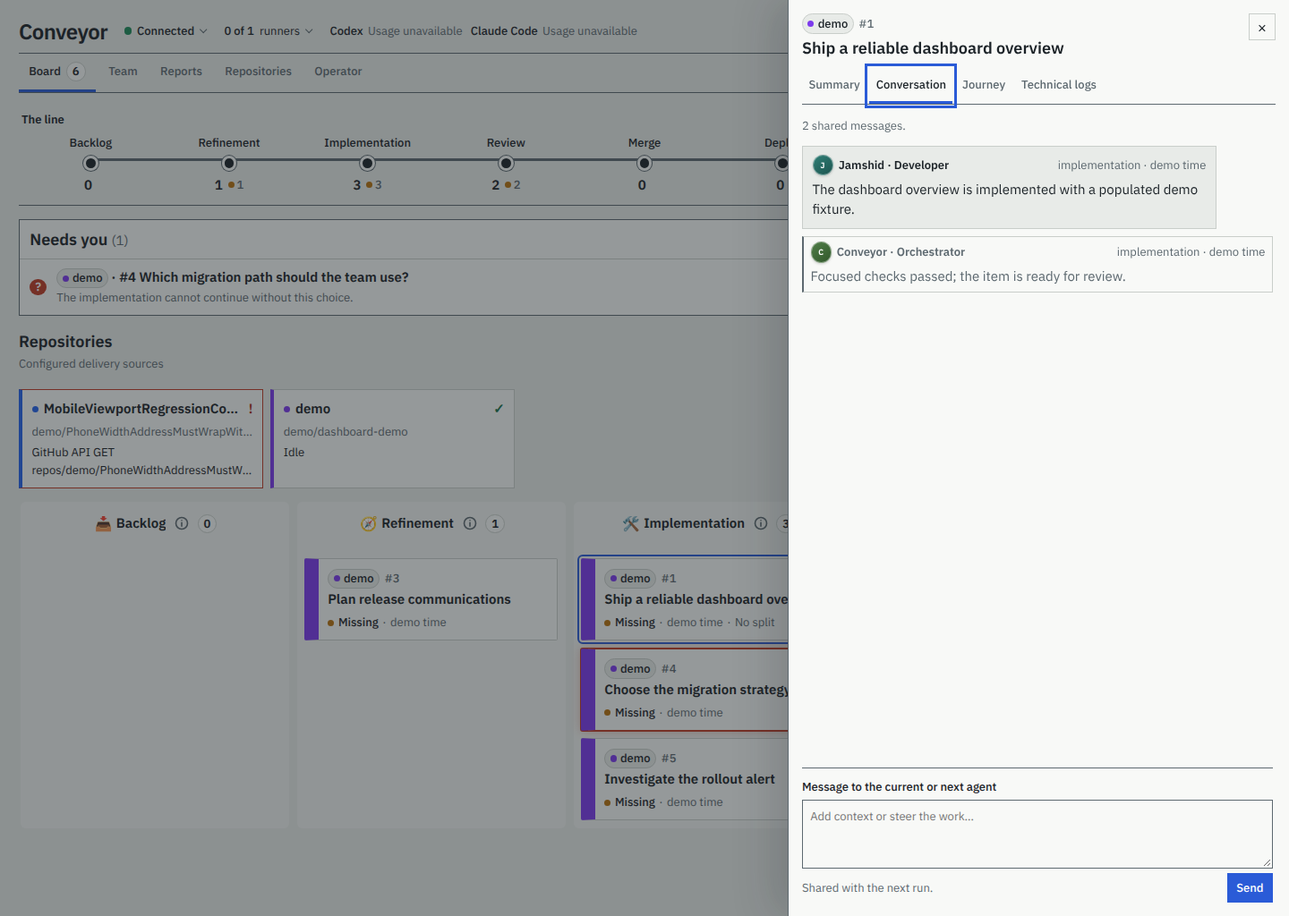
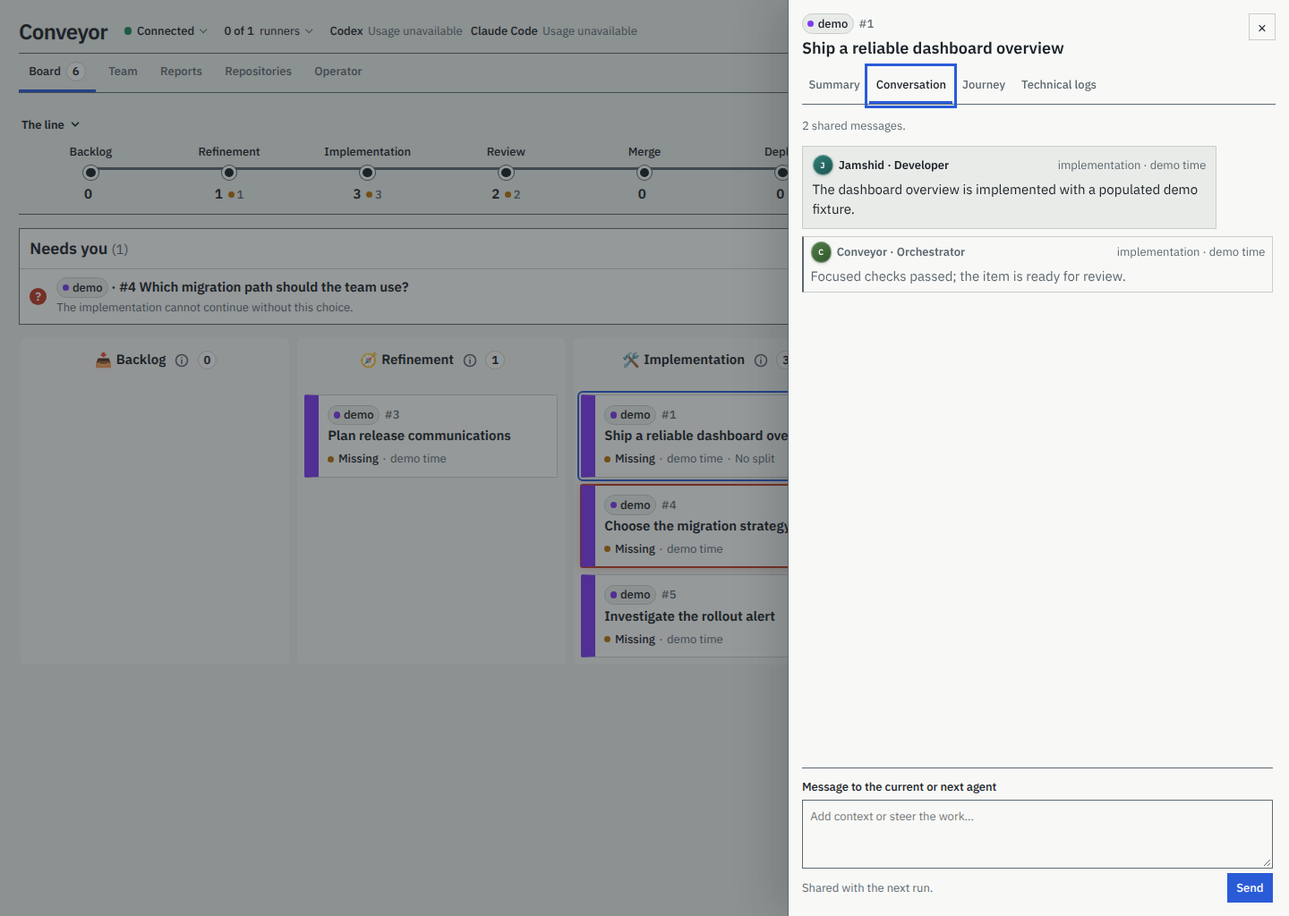
Fold the line (closed by default on phones); drop the board's Repositories strip (#241)
* Fold the line, closed by default on phones; drop the board's Repositories strip

The line's heading is a fold toggle. It animates like the board's rows,
is open on wide screens and closed on phones until the reader chooses,
and the choice is kept in localStorage and restored by the head script
before the page draws, so it never flashes. A closed line's stations are
inert.

The Board no longer shows the Repositories strip: the Repositories tab
lists every repository and each card names its own.

Claude-Session: https://claude.ai/code/session_01FLLqzkdKVb1gEw2jGLGWF2

* Screenshot checks: repository address and health live on the Repositories pages, not the board

Claude-Session: https://claude.ai/code/session_01FLLqzkdKVb1gEw2jGLGWF2

* Regenerate dashboard screenshots without the board's Repositories strip

Claude-Session: https://claude.ai/code/session_01FLLqzkdKVb1gEw2jGLGWF2

* Animate the line fold on its own, and check repository health on the Repositories page

The line's transitions waited on body.board-motion, which only the row-animation
branch set; the page now sets it after the first paint. The board no longer lists
repositories, so the degraded-sync check reads the Repositories page.

Claude-Session: https://claude.ai/code/session_01FLLqzkdKVb1gEw2jGLGWF2

* Call out a repository that cannot sync on the Board

With the Repositories strip gone, a degraded repository had no trace on the Board.
[…]

diff --git a/src/web/styles.ts b/src/web/styles.ts
@@ -1,5 +1,5 @@
 /** Runs before CSS is parsed so a persisted explicit theme never flashes. */
-export const themeInitScript = `try{const theme=localStorage.getItem("conveyor-theme");if(theme==="light"||theme==="dark")document.documentElement.dataset.theme=theme}catch{}`;
+export const themeInitScript = `try{const theme=localStorage.getItem("conveyor-theme");if(theme==="light"||theme==="dark")document.documentElement.dataset.theme=theme;const line=localStorage.getItem("conveyor-line");if(line==="open"||line==="closed")document.documentElement.dataset.line=line}catch{}`;
 
 const darkThemeTokens = "color-scheme:dark;--concrete:#151A1D;--panel:#20272B;--ink:#F2F5F3;--steel:#AEB9BD;--run:#4DCE91;--wait:#F0B35B;--stop:#FF7B69;--run-text:#4DCE91;--wait-text:#F0B35B;--stop-text:#FF7B69;--signal:#83A7FF;--line:#465157;--on-signal:#0E1A34;--run-glow:rgba(77,206,145,.42);--stop-glow:rgba(255,123,105,.46);--overlay:rgba(0,0,0,.68);--popover-shadow:0 12px 32px rgba(0,0,0,.48);--inspector-shadow:-16px 0 44px rgba(0,0,0,.58);--loader-bg:rgba(21,26,29,.9);--repo-1:#7BA8FF;--repo-2:#BEA3FF;--repo-3:#63D5C5;--repo-4:#C5D66D;--repo-5:#66C7F0;--repo-6:#7ED68F;--repo-7:#9FA8FF;--repo-8:#A8BAC4";
 
@@ -16,6 +16,7 @@ export const dashboardCss = `
 *{box-sizing:border-box}html,body{background:var(--concrete)}body{margin:0;color:var(--ink)}button,input,textarea,select{font:inherit;background:var(--panel);color:var(--ink)}button,summary{cursor:pointer}a{color:var(--signal);text-decoration-thickness:1px;text-underline-offset:3px}a:hover{text-decoration-thickness:2px}a:focus-visible,button:focus-visible,input:focus-visible,textarea:focus-visible,summary:focus-visible,[tabindex]:focus-visible{outline:3px solid var(--signal);outline-offset:2px}h1,h2,h3,h4,p{margin-top:0}strong,b{font-weight:600}.sr-only{position:absolute;width:1px;height:1px;margin:-1px;overflow:hidden;clip:rect(0,0,0,0);white-space:nowrap}
 .dashboard{width:100%;margin:0 auto;padding:.65rem clamp(.75rem,1.5vw,1.4rem) 1.5rem}.dashboard-header{display:flex;flex-wrap:wrap;align-items:center;gap:.3rem clamp(.7rem,1.5vw,1.25rem);padding:.65rem 0;border-bottom:1px solid var(--steel)}.wordmark{margin:0;font-size:var(--text-xl);font-weight:600;letter-spacing:-.025em;line-height:1}.wordmark a{color:var(--ink);text-decoration:none}.server-status,.runner-status,.theme-control{position:relative;min-width:0;font-size:var(--text-sm)}.server-status summary,.runner-status summary,.theme-control summary{display:flex;align-items:center;gap:.4rem;list-style:none;white-space:nowrap}.server-status summary::-webkit-details-marker,.runner-status summary::-webkit-details-marker,.theme-control summary::-webkit-details-marker{display:none}.server-status summary::after,.runner-status summary::after,.theme-control summary::after,.account-menu>summary::after{content:"";flex:none;width:.36rem;height:.36rem;margin:-.18rem .1rem 0 .05rem;border:solid var(--steel);border-width:0 1.5px 1.5px 0;transform:rotate(45deg)}.dashboard-header details[open]>summary::after{margin-top:.18rem;transform:rotate(225deg)}.server-status summary strong,.runner-status summary strong,.theme-control summary strong{font-weight:500}.server-dot{width:.55rem;height:.55rem;flex:none;border-radius:50%;background:var(--wait)}.server-status[data-connected="true"] .server-dot{background:var(--run)}.server-status[data-connected="false"] .server-dot{background:var(--stop)}.total-usage{flex:1 1 8rem;min-width:0;overflow:hidden;color:var(--steel);font-size:var(--text-sm);font-variant-numeric:tabular-nums;text-align:right;text-overflow:ellipsis;white-space:nowrap}.logout-form{margin:0}.logout{width:100%;border:0;background:transparent;color:var(--ink);padding:.35rem .1rem;font-size:var(--text-sm)}.header-popover{position:absolute;top:calc(100% + .65rem);left:0;z-index:20;width:min(22rem,calc(100vw - 2rem));padding:.8rem;border:1px solid var(--steel);background:var(--panel);box-shadow:var(--popover-shadow)}.header-popover h2{margin:0 0 .45rem;font-size:var(--text-body);font-weight:600}.header-popover p{margin:.25rem 0;color:var(--steel);font-size:var(--text-sm)}.header-popover ul{display:grid;gap:.25rem;margin:0;padding:0;list-style:none}.header-popover li a{display:grid;padding:.35rem;color:var(--ink);text-decoration:none}.header-popover li a:hover{background:var(--concrete)}.header-popover li span{color:var(--steel);font-size:var(--text-sm)}.runner-status .header-popover{left:50%;transform:translateX(-40%)}.theme-popover{right:0;left:auto;width:10rem}.theme-options{display:grid;gap:.2rem}.theme-options button{border:1px solid transparent;background:transparent;color:var(--ink);padding:.35rem .45rem;text-align:left}.theme-options button:hover,.theme-options button[aria-pressed="true"]{border-color:var(--line);background:var(--concrete)}.updated{font-variant-numeric:tabular-nums}
 .line{margin:.8rem 0 1rem;padding:.55rem .2rem .7rem;border-bottom:1px solid var(--steel)}.line>h2{margin:0 0 .4rem;font-size:var(--text-sm);font-weight:600}.line ol{display:flex;margin:0;padding:0;list-style:none}.line-station{position:relative;flex:1;min-width:5.5rem}.line-station::after{content:"";position:absolute;z-index:0;top:1.8rem;right:50%;left:-50%;height:3px;background:var(--steel)}.line-station:first-child::after{left:50%}.line-station a{position:relative;z-index:1;display:grid;justify-items:center;gap:.32rem;color:var(--ink);font-size:var(--text-sm);font-weight:500;text-align:center;text-decoration:none}.line-station a::before{content:"";order:2;width:.72rem;height:.72rem;border:3px solid var(--panel);border-radius:50%;background:var(--ink);box-shadow:0 0 0 1px var(--steel)}.line-station-name{order:1;white-space:nowrap}.line-station-state{order:3;display:flex;align-items:center;gap:.38rem;color:var(--steel);font-variant-numeric:tabular-nums}.line-station-state strong{color:var(--ink);font-size:var(--text-body)}.andon-signals,.andon-count{display:flex;align-items:center;gap:.18rem;min-height:.5rem}.andon-count small{font-size:var(--text-sm)}.andon{display:block;width:.48rem;height:.48rem;flex:none;border-radius:50%}.andon--run{background:var(--run)}.andon--wait{background:var(--wait)}.andon--stop{background:var(--stop)}.line-station--running::after{background:repeating-linear-gradient(90deg,var(--steel) 0 8px,var(--panel) 8px 12px);background-size:24px 3px}
+.repository-warnings{margin:0 0 .8rem}.repository-warnings ul{display:grid;gap:.35rem;margin:0;padding:0;list-style:none}.repository-warnings li{display:flex;align-items:center;gap:.6rem;padding:.45rem .6rem;border:1px solid var(--stop);border-left-width:4px;border-radius:2px;background:var(--panel);font-size:var(--text-sm)}.repository-warning-mark{display:inline-flex;flex:none;align-items:center;justify-content:center;width:1.25rem;height:1.25rem;border-radius:50%;background:var(--stop);color:var(--panel);font-weight:700;font-size:.8rem}.repository-warning-text{flex:1;min-width:0;color:var(--ink);overflow-wrap:anywhere}.repository-warnings a{flex:none;display:inline-flex;align-items:center;min-height:2rem;color:var(--signal);font-weight:600}@media(max-width:760px){.repository-warnings li{align-items:flex-start}.repository-warnings a{min-height:2.75rem;align-items:flex-start;padding-top:.1rem}}
 .system-warnings{margin:0 0 1rem;padding:.7rem .8rem;border:1px solid var(--stop);background:var(--panel);color:var(--stop-text)}.system-warnings h2{margin:0 0 .3rem;font-size:var(--text-body);font-weight:600}.system-warnings ul{margin:0;padding-left:1.2rem;font-size:var(--text-sm)}
 .needs-you{margin:0 0 1rem;border:1px solid var(--steel);background:var(--panel)}.needs-you>header{padding:.55rem .75rem;border-bottom:1px solid var(--line)}.needs-you h2{margin:0;font-size:var(--text-lg);font-weight:600}.needs-you h2 span{color:var(--steel);font-size:var(--text-body);font-weight:400}.needs-you>ol{margin:0;padding:0;list-style:none}.needs-you-item{display:grid;grid-template-columns:1.25rem minmax(0,1fr) auto;align-items:center;gap:.75rem;padding:.6rem .75rem}.needs-you-item+.needs-you-item{border-top:1px solid var(--line)}.needs-you-item>.andon{width:.58rem;height:.58rem;justify-self:center}.needs-you-item h3{margin:0;font-size:var(--text-body);font-weight:600}.needs-you-item p{margin:.05rem 0 0;color:var(--steel);font-size:var(--text-sm)}.needs-you-action,.answer-button{border:0;border-radius:2px;background:var(--signal);color:var(--on-signal);padding:.38rem .65rem;font-size:var(--text-sm);font-weight:500;text-decoration:none}.needs-you-question{display:grid;width:1.25rem;height:1.25rem;place-items:center;line-height:1;border-radius:50%;background:var(--stop);color:var(--on-signal);font-size:var(--text-sm);font-weight:600}.needs-you-item form{display:flex;align-items:center;justify-content:flex-end;gap:.55rem;flex-wrap:wrap}.option{display:flex;align-items:center;gap:.2rem;margin:0;font-size:var(--text-sm)}.free-text{display:grid;gap:.25rem;min-width:12rem;margin:0;font-size:var(--text-sm);font-weight:500}.free-text input{min-width:0;border:1px solid var(--steel);padding:.35rem}
 .tabs{display:flex;align-items:center;gap:.2rem;margin-bottom:.8rem;border-bottom:1px solid var(--steel)}.tab{display:flex;align-items:center;gap:.4rem;padding:.6rem .75rem;border-bottom:3px solid transparent;color:var(--steel);font-size:var(--text-sm);font-weight:500;text-decoration:none}.tab:hover{background:var(--panel)}.tab--active{border-bottom-color:var(--signal);color:var(--ink)}.tab-count,.count{display:inline-grid;min-width:1.45rem;height:1.45rem;padding:0 .3rem;place-items:center;border:1px solid var(--line);border-radius:50%;background:var(--panel);color:var(--ink);font-size:var(--text-sm);font-weight:600;font-variant-numeric:tabular-nums}
@@ -55,7 +56,7 @@ body:has(dialog[open]){overflow:hidden}
 @media(max-width:760px){.settings-section--form{grid-template-columns:1fr}.settings-form{grid-template-columns:1fr}.settings-actions{grid-column:1}.account-table th:last-child,.account-table td:last-child{width:auto}}
 @media(max-width:760px){.tabs{min-width:0;margin-bottom:.7rem;max-width:100%;overflow-x:auto;overscroll-behavior-x:contain}.tab{flex:0 0 auto;padding:.55rem .65rem;white-space:nowrap}}
 .repository-badge{min-width:0;max-width:min(100%,18rem);vertical-align:middle}.repository-name{min-width:0;overflow:hidden;text-overflow:ellipsis;white-space:nowrap}.section-heading>div,.details-header>div:first-child{min-width:0}.details-header h2,.report-heading h2{overflow-wrap:anywhere}.report>*{min-width:0}.report-filters nav{min-width:0;max-width:100%}.report-chip{max-width:100%;overflow-wrap:anywhere}
-.repository-badge{text-decoration:none}.repository-badge:hover{border-color:var(--steel)}.repositories{display:grid;gap:.65rem;margin:0 0 1rem}.repositories-heading{margin:0}.repositories-heading h2 a{color:inherit;text-decoration:none}.repositories-heading h2 a:hover{text-decoration:underline}.repository-grid{display:grid;grid-template-columns:repeat(auto-fill,minmax(min(100%,17rem),1fr));gap:.55rem;margin:0;padding:0;list-style:none}.repository-card{display:grid;align-content:start;gap:.28rem;min-width:0;min-height:6.75rem;padding:.65rem .7rem;border:1px solid var(--line);border-left:4px solid var(--repo-color);background:var(--panel);color:var(--ink);text-decoration:none}.repository-card:hover{border-color:var(--steel);border-left-color:var(--repo-color);background:var(--concrete)}.repository-card--degraded{border-top-color:var(--stop);border-right-color:var(--stop);border-bottom-color:var(--stop)}.repository-card-heading{display:flex;align-items:center;gap:.4rem;min-width:0}.repository-card-heading strong{min-width:0;overflow:hidden;text-overflow:ellipsis;white-space:nowrap}.repository-health{margin-left:auto;font-weight:700}.repository-card--healthy .repository-health{color:var(--run-text)}.repository-card--degraded .repository-health,.repository-error{color:var(--stop-text)}.repository-address,.repository-status,.repository-empty{margin:0;color:var(--steel);font-size:var(--text-sm);overflow-wrap:anywhere}.repository-status{color:var(--ink)}.repository-card .repository-address{overflow:hidden;text-overflow:ellipsis;white-space:nowrap}.repository-card .repository-status{display:-webkit-box;min-height:3em;overflow:hidden;-webkit-box-orient:vertical;-webkit-line-clamp:2;line-clamp:2}.repositories-show-all{justify-self:start;font-weight:500}.repository-detail{display:grid;max-width:72rem;gap:0;margin-bottom:1.5rem;border:1px solid var(--line);background:var(--panel)}.repository-detail>section,.repository-detail-header{padding:.8rem 1rem;border-bottom:1px solid var(--line)}.repository-detail>section:last-child{border-bottom:0}.repository-detail h2,.repository-detail h3{margin:0}.repository-detail h3{font-size:var(--text-lg)}.repository-detail-header h2{margin:.15rem 0}.repository-detail-header p{margin:.25rem 0}.repository-detail-header>.repository-detail-kind{display:flex;align-items:center;gap:.35rem;color:var(--steel);font-size:var(--text-sm)}.repository-items{display:grid;gap:.35rem;margin:.5rem 0 0;padding:0;list-style:none}.repository-items li{display:flex;flex-wrap:wrap;align-items:baseline;justify-content:space-between;gap:.35rem .8rem;padding:.4rem 0;border-top:1px solid var(--line);font-size:var(--text-sm)}.repository-items li:first-child{border-top:0}.repository-items span,.repository-items time{color:var(--steel)}.repository-facts{display:grid;grid-template-columns:max-content minmax(0,1fr);gap:.3rem 1rem;margin:.5rem 0 0}.repository-facts dt{color:var(--steel)}.repository-facts dd{margin:0;overflow-wrap:anywhere}
+.repository-badge{text-decoration:none}.repository-badge:hover{border-color:var(--steel)}.repositories{display:grid;gap:.65rem;margin:0 0 1rem}.repositories-heading{margin:0}.repository-grid{display:grid;grid-template-columns:repeat(auto-fill,minmax(min(100%,17rem),1fr));gap:.55rem;margin:0;padding:0;list-style:none}.repository-card{display:grid;align-content:start;gap:.28rem;min-width:0;min-height:6.75rem;padding:.65rem .7rem;border:1px solid var(--line);border-left:4px solid var(--repo-color);background:var(--panel);color:var(--ink);text-decoration:none}.repository-card:hover{border-color:var(--steel);border-left-color:var(--repo-color);background:var(--concrete)}.repository-card--degraded{border-top-color:var(--stop);border-right-color:var(--stop);border-bottom-color:var(--stop)}.repository-card-heading{display:flex;align-items:center;gap:.4rem;min-width:0}.repository-card-heading strong{min-width:0;overflow:hidden;text-overflow:ellipsis;white-space:nowrap}.repository-health{margin-left:auto;font-weight:700}.repository-card--healthy .repository-health{color:var(--run-text)}.repository-card--degraded .repository-health,.repository-error{color:var(--stop-text)}.repository-address,.repository-status,.repository-empty{margin:0;color:var(--steel);font-size:var(--text-sm);overflow-wrap:anywhere}.repository-status{color:var(--ink)}.repository-card .repository-address{overflow:hidden;text-overflow:ellipsis;white-space:nowrap}.repository-card .repository-status{display:-webkit-box;min-height:3em;overflow:hidden;-webkit-box-orient:vertical;-webkit-line-clamp:2;line-clamp:2}.repository-detail{display:grid;max-width:72rem;gap:0;margin-bottom:1.5rem;border:1px solid var(--line);background:var(--panel)}.repository-detail>section,.repository-detail-header{padding:.8rem 1rem;border-bottom:1px solid var(--line)}.repository-detail>section:last-child{border-bottom:0}.repository-detail h2,.repository-detail h3{margin:0}.repository-detail h3{font-size:var(--text-lg)}.repository-detail-header h2{margin:.15rem 0}.repository-detail-header p{margin:.25rem 0}.repository-detail-header>.repository-detail-kind{display:flex;align-items:center;gap:.35rem;color:var(--steel);font-size:var(--text-sm)}.repository-items{display:grid;gap:.35rem;margin:.5rem 0 0;padding:0;list-style:none}.repository-items li{display:flex;flex-wrap:wrap;align-items:baseline;justify-content:space-between;gap:.35rem .8rem;padding:.4rem 0;border-top:1px solid var(--line);font-size:var(--text-sm)}.repository-items li:first-child{border-top:0}.repository-items span,.repository-items time{color:var(--steel)}.repository-facts{display:grid;grid-template-columns:max-content minmax(0,1fr);gap:.3rem 1rem;margin:.5rem 0 0}.repository-facts dt{color:var(--steel)}.repository-facts dd{margin:0;overflow-wrap:anywhere}
 @media(max-width:760px){.repository-grid{grid-template-columns:minmax(0,1fr)}.repository-card{min-width:0}.repository-detail>section,.repository-detail-header{padding:.7rem}.repository-facts{grid-template-columns:1fr;gap:.1rem}.repository-facts dd{margin-bottom:.35rem}}
 .account-popover>a[aria-current="page"]{background:var(--concrete);font-weight:600}
 .repository-detail-header{min-width:0}.repository-detail-header h2{overflow-wrap:anywhere}.repository-detail-header p,.repository-detail-header p span,.repository-detail-header .repository-address a{overflow-wrap:anywhere}
@@ -80,4 +81,5 @@ export const quotaHeaderCss = `
 .issue.issue--compact{display:grid;gap:.15rem;padding:.4rem .6rem;color:inherit;text-decoration:none}.issue--compact .issue-title{font-size:var(--text-sm);font-weight:600;line-height:1.35}.issue--compact .issue-status{margin:0}.issue--compact:hover{border-top-color:var(--steel);border-right-color:var(--steel);border-bottom-color:var(--steel)}.stage-dialog{width:min(26rem,calc(100vw - 2rem));padding:0;border:1px solid var(--line);border-radius:2px;background:var(--panel);color:var(--ink);box-shadow:var(--popover-shadow)}.stage-dialog::backdrop{background:var(--overlay)}.stage-dialog-header{display:flex;align-items:center;justify-content:space-between;gap:1rem;padding:.8rem 1rem;border-bottom:1px solid var(--line)}.stage-dialog-header h2{margin:0;font-size:var(--text-lg)}.stage-dialog-close{width:2.25rem;height:2.25rem;border:1px solid var(--line);border-radius:2px;font-size:1.2rem;line-height:1}.stage-dialog-description,.stage-dialog-count,.stage-dialog-usage{margin:.8rem 1rem 0;font-size:var(--text-sm)}.stage-dialog-description{color:var(--ink);font-size:var(--text-body);line-height:1.5}.stage-dialog-count,.stage-dialog-usage{color:var(--steel)}.stage-dialog-count strong{color:var(--ink)}.stage-dialog-usage span{font-weight:600;color:var(--ink)}.stage-dialog-team{margin:.8rem 1rem 0}.stage-dialog-team h3{margin:0 0 .4rem;font-size:var(--text-sm);font-weight:600}.stage-dialog-team ul{display:grid;gap:.45rem;margin:0;padding:0;list-style:none}.stage-dialog>:last-child{margin-bottom:1rem}
 .relation-summary{display:flex;flex-wrap:wrap;align-items:center;gap:.25rem .35rem}.dep-chip{display:inline-flex;align-items:center;min-height:1.6rem;padding:0 .45rem;border:1px solid var(--line);border-radius:2px;background:var(--panel);color:var(--ink);font-size:.8rem;font-weight:500;font-variant-numeric:tabular-nums;text-decoration:none}button.dep-chip{cursor:pointer}.dep-chip:hover{border-color:var(--steel)}.dep-chip--stop{border-color:var(--stop);color:var(--stop-text)}.dep-chip--blocks{font-weight:600}.dep-chip[aria-pressed=true]{border-color:var(--signal);color:var(--signal)}.family-head .dep-chip{flex:none}.trace-banner{position:fixed;bottom:1.75rem;left:50%;z-index:31;display:flex;flex-wrap:wrap;align-items:center;gap:.5rem .8rem;width:min(46rem,calc(100vw - 2rem));box-sizing:border-box;margin:0;padding:.5rem .5rem .5rem .8rem;border:1px solid var(--signal);border-radius:2px;background:var(--panel);box-shadow:var(--popover-shadow);font-size:var(--text-sm);transform:translateX(-50%)}.trace-banner[hidden]{display:none}.trace-clear{margin-left:auto;min-height:2.25rem;padding:0 .8rem;border:1px solid var(--line);border-radius:2px;font-size:var(--text-sm);font-weight:500}body.tracing .board article.issue:not([data-trace-role]),body.tracing .board .family-row:not([data-trace-role])>.family-head{opacity:.25}.issue[data-trace-role=focus],.family-row[data-trace-role=focus]>.family-head{outline:2px solid var(--signal);outline-offset:2px}.issue[data-trace-role=up],.family-row[data-trace-role=up]>.family-head{outline:2px dashed var(--stop);outline-offset:2px}.issue[data-trace-role=down],.family-row[data-trace-role=down]>.family-head{outline:2px dashed var(--signal);outline-offset:2px}.trace-role{flex:none;margin-left:auto;padding:0 .35rem;border-radius:2px;font-size:.7rem;font-weight:600;letter-spacing:.02em;text-transform:uppercase}.trace-role--focus{background:var(--ink);color:var(--panel)}.trace-role--up{border:1px solid var(--stop);color:var(--stop-text)}.trace-role--down{border:1px solid var(--signal);color:var(--signal)}@media(prefers-reduced-motion:no-preference){.board article.issue,.family-head{transition:background-color .14s ease-out,border-color .14s ease-out,color .14s ease-out,opacity .2s cubic-bezier(.16,1,.3,1)}}@media(max-width:760px){.dep-chip{min-height:2.75rem;padding:0 .7rem}.trace-clear{min-height:2.75rem}.family-head .dep-chip,.family-head .trace-role{order:7}}
 .answer-status{margin:.35rem 0 0;color:var(--steel);font-size:var(--text-sm)}.answer-status:empty{display:none}.answer-button[aria-busy=true]{cursor:progress;opacity:.75}form[data-answering] input,form[data-answering] label{opacity:.6;pointer-events:none}
+.line-toggle{display:inline-flex;align-items:center;gap:.35rem;min-height:2rem;padding:0;border:0;background:none;color:inherit;font:inherit;cursor:pointer}.line-toggle:focus-visible{outline:2px solid var(--signal);outline-offset:2px}.line-body{display:grid;grid-template-rows:1fr}.line-body>ol{min-height:0;overflow:clip;overflow-clip-margin:4px}html[data-line=closed] .line-body{grid-template-rows:0fr}html[data-line=closed] .line-toggle svg{transform:rotate(-90deg)}@media(max-width:760px){html:not([data-line=open]) .line-body{grid-template-rows:0fr}html:not([data-line=open]) .line-toggle svg{transform:rotate(-90deg)}.line-toggle{min-height:2.75rem}}@media(prefers-reduced-motion:no-preference){body.board-motion .line-body{transition:grid-template-rows .24s cubic-bezier(.16,1,.3,1)}body.board-motion .line-toggle svg{transition:transform .24s cubic-bezier(.16,1,.3,1)}}
 `;

diff --git a/src/web/render.tsx b/src/web/render.tsx
@@ -868,16 +868,31 @@ function RepositoryEmpty() {
   return <p class="repository-empty">No repositories are configured.</p>;
 }
 
-function Repositories({ model, limited = false }: { model: DashboardViewModel; limited?: boolean }) {
+function Repositories({ model }: { model: DashboardViewModel }) {
   const repositories = [...model.repositories].sort(repositoryOrder);
-  const visible = limited ? repositories.slice(0, 6) : repositories;
   return (
-    <section class={limited ? "repositories repositories--strip" : "repositories"} aria-labelledby="repositories-heading">
+    <section class="repositories" aria-labelledby="repositories-heading">
       <header class="section-heading repositories-heading">
-        <div><h2 id="repositories-heading">{limited ? <a href="/repositories">Repositories</a> : "Repositories"}</h2><p>{limited ? "Configured delivery sources" : "Every configured delivery source"}</p></div>
+        <div><h2 id="repositories-heading">Repositories</h2><p>Every configured delivery source</p></div>
       </header>
-      {visible.length === 0 ? <RepositoryEmpty /> : <ol class="repository-grid">{visible.map((repository) => <li key={repository.id}><RepositoryCard repository={repository} /></li>)}</ol>}
-      {limited && repositories.length > visible.length && <a class="repositories-show-all" href="/repositories">Show all {repositories.length}</a>}
+      {repositories.length === 0 ? <RepositoryEmpty /> : <ol class="repository-grid">{repositories.map((repository) => <li key={repository.id}><RepositoryCard repository={repository} /></li>)}</ol>}
+    </section>
+  );
+}
+
+// The board does not list repositories, so a repository that cannot sync says so here: its items may be stale.
+function RepositoryWarnings({ model }: { model: DashboardViewModel }) {
+  const degraded = [...model.repositories].filter((repository) => repository.health === "degraded").sort(repositoryOrder);
+  if (degraded.length === 0) return null;
+  return (
+    <section class="repository-warnings" aria-label="Repositories that cannot sync">
+      <ul>{degraded.map((repository) => (
+        <li key={repository.id} class={`repo-color-${repository.color}`}>
+          <span class="repository-warning-mark" aria-hidden="true">!</span>
+          <span class="repository-warning-text"><strong>{repository.id}</strong> is not syncing{repository.errorSummary ? <>: {repository.errorSummary}</> : null}. Its items may be out of date.</span>
+          <a href={repositoryHref(repository.id)}>Details</a>
+        </li>
+      ))}</ul>
     </section>
   );
 }
@@ -1005,8 +1020,14 @@ function Line({ model }: { model: DashboardViewModel }) {
   ];
   return (
     <nav class="line" aria-labelledby="line-heading">
-      <h2 id="line-heading">The line</h2>
-      <ol>
+      <h2 id="line-heading">
+        <button type="button" class="line-toggle" data-line-toggle aria-expanded="true" aria-controls="line-stations">
+          The line
+          <svg width="14" height="14" viewBox="0 0 16 16" fill="none" stroke="currentColor" stroke-width="2" stroke-linecap="round" stroke-linejoin="round" aria-hidden="true"><path d="M4 6l4 4 4-4" /></svg>
+        </button>
+      </h2>
+      <div class="line-body">
+      <ol id="line-stations">
         {stations.map((station) => {
           const signalCounts = station.issues.reduce<Record<"run" | "wait" | "stop", number>>((counts, issue) => {
             counts[issueSignal(issue)] += 1;
@@ -1032,6 +1053,7 @@ function Line({ model }: { model: DashboardViewModel }) {
           );
         })}
       </ol>
+      </div>
     </nav>
   );
 }
@@ -1193,7 +1215,7 @@ function Page({ model }: { model: DashboardViewModel }) {
           {model.systemWarnings.length > 0 && <section class="system-warnings" role="alert"><h2>System attention</h2><ul>{model.systemWarnings.map((warning) => <li key={warning}>{warning}</li>)}</ul></section>}
           <Navigation model={model} />
           <div class="content-anchor" id="content" tabIndex={-1} />
-          {model.view === "board" && <><Line model={model} /><NeedsYou model={model} /><Repositories model={model} limited /></>}
+          {model.view === "board" && <><RepositoryWarnings model={model} /><Line model={model} /><NeedsYou model={model} /></>}
           {content}
           {model.selectedIssue && (
             <DetailsDialog

diff --git a/tests/web/render.test.ts b/tests/web/render.test.ts
@@ -507,6 +507,9 @@ describe("renderDashboard", () => {
     expect(themeScript).toBeLessThan(stylesheet);
     expect(themeInitScript).toContain('localStorage.getItem("conveyor-theme")');
     expect(themeInitScript).toContain('document.documentElement.dataset.theme');
+    // The line's open or closed choice is restored before the page draws, like the theme.
+    expect(themeInitScript).toContain('localStorage.getItem("conveyor-line")');
+    expect(themeInitScript).toContain("document.documentElement.dataset.line");
     expect(html).toContain('<meta name="color-scheme" content="light dark"');
     expect(html).toContain('class="theme-control"');
     expect(html).toContain('data-theme-choice="system"');
@@ -540,7 +543,7 @@ describe("renderDashboard", () => {
     expect(html).toContain('--repo-5:#66C7F0');
   });
 
-  test("renders the ordered Board strip and repository list without a horizontal phone layout", () => {
+  test("lists repositories on the Repositories tab only, ordered, without a horizontal phone layout", () => {
     const summary = (id: string, health: "healthy" | "degraded", items: DashboardViewModel["repositories"][number]["items"], errorSummary: string | null = null) => ({
       id, address: `owner/${id}`, color: 1, health, error: errorSummary, errorSummary,
       addressUrl: `https://github.com/owner/${id}`, lastReconciledAt: null,
@@ -558,22 +561,21 @@ describe("renderDashboard", () => {
       summary("extra", "healthy", []),
       summary("space/name", "healthy", []),
     ];
+    // The board does not repeat the repositories: the Repositories tab lists them, and each card names its own.
     const board = renderDashboard({ ...dashboard, repositories });
-
-    expect(board).toContain('<h2 id="repositories-heading"><a href="/repositories">Repositories</a></h2>');
-    expect(board).toContain('href="/repositories/space%2Fname"');
-    expect(board).toContain('Webhook is unavailable');
-    expect(board).toContain('1 in progress · 1 needs you');
-    expect(board).toContain('Show all 7');
-    expect(board.indexOf('href="/repositories/broken"')).toBeLessThan(board.indexOf('href="/repositories/owner"'));
-    expect(board.indexOf('href="/repositories/owner"')).toBeLessThan(board.indexOf('href="/repositories/active"'));
-    expect(dashboardCss).toContain('.repository-grid{grid-template-columns:minmax(0,1fr)}');
+    expect(board).not.toContain('id="repositories-heading"');
+    expect(board).not.toContain(`class="repository-card`);
 
     const list = renderDashboard({ ...dashboard, view: "repositories", repositories });
     expect(list).toContain('class="tab tab--active" aria-current="page">Repositories</a>');
+    expect(list).toContain('href="/repositories/space%2Fname"');
     expect(list).toContain('owner/space/name');
-    expect(list).not.toContain('Show all 7');
-    expect(renderDashboard({ ...dashboard, repositories: [] })).toContain("No repositories are configured.");
+    expect(list).toContain('Webhook is unavailable');
+    expect(list).toContain('1 in progress · 1 needs you');
+    expect(list.indexOf('href="/repositories/broken"')).toBeLessThan(list.indexOf('href="/repositories/owner"'));
+    expect(list.indexOf('href="/repositories/owner"')).toBeLessThan(list.indexOf('href="/repositories/active"'));
+    expect(dashboardCss).toContain('.repository-grid{grid-template-columns:minmax(0,1fr)}');
+    expect(renderDashboard({ ...dashboard, view: "repositories", repositories: [] })).toContain("No repositories are configured.");
   });
 
   test("renders repository detail sections and redacts restricted setup for non-superusers", () => {

diff --git a/tests/web/refresh-position.test.ts b/tests/web/refresh-position.test.ts
@@ -493,4 +493,33 @@ describe("dashboard live refresh position", () => {
       server.stop(true);
     }
   }, 30_000);
+  test("the line is open on a wide screen and closed on a phone until the reader folds or opens it", async () => {
+    const server = startDashboard({ dashboard: () => dashboard("revision-1", [issue("card-1", 3, "Card")]), revision: () => "revision-1", delayMs: () => 0 });
+    try {
+      browser = await chromium.launch({ headless: true });
+      const lineState = (page: Awaited<ReturnType<Browser["newPage"]>>) => page.evaluate(() => ({
+        expanded: document.querySelector("[data-line-toggle]")?.getAttribute("aria-expanded"),
+        height: document.getElementById("line-stations")!.getBoundingClientRect().height,
+        inert: (document.getElementById("line-stations") as HTMLElement & { inert: boolean }).inert,
+      }));
+      const desktop = await browser.newPage({ viewport: { width: 1280, height: 900 }, reducedMotion: "reduce" });
+      await signIn(desktop, server.port);
+      expect(await lineState(desktop)).toMatchObject({ expanded: "true", inert: false });
+      // Folding animates once the first state has painted.
+      await desktop.waitForFunction(() => document.body.classList.contains("board-motion"));
+      expect((await lineState(desktop)).height).toBeGreaterThan(20);
+
+      const phone = await browser.newPage({ viewport: { width: 390, height: 844 }, isMobile: true, hasTouch: true, reducedMotion: "reduce" });
+      await signIn(phone, server.port);
+      expect(await lineState(phone)).toEqual({ expanded: "false", height: 0, inert: true });
+      await phone.locator("[data-line-toggle]").click();
+      expect(await lineState(phone)).toMatchObject({ expanded: "true", inert: false });
+      // The choice is remembered: after a reload the phone keeps the line open.
+      await phone.reload();
+      expect(await lineState(phone)).toMatchObject({ expanded: "true", inert: false });
+      expect((await lineState(phone)).height).toBeGreaterThan(20);
+    } finally {
+      server.stop(true);
+    }
+  }, 30_000);
 });

diff --git a/src/web/client.ts b/src/web/client.ts
@@ -984,6 +984,21 @@ export const dashboardClient = String.raw`(() => {
   // Rows animate only once the page has painted its first state, so loading the page does not replay a fold.
   requestAnimationFrame(() => requestAnimationFrame(() => body.classList.add('board-motion')));
 
+  // The line folds too: open on wide screens and closed on phones until the reader chooses (the theme
+  // script restores the choice before the page draws, so CSS shows the right state at once).
+  const lineOpen = () => document.documentElement.dataset.line === 'open' ||
+    (document.documentElement.dataset.line !== 'closed' && !window.matchMedia('(max-width: 760px)').matches);
+  const applyLineFold = () => {
+    const open = lineOpen();
+    const toggle = document.querySelector('[data-line-toggle]');
+    if (toggle) toggle.setAttribute('aria-expanded', open ? 'true' : 'false');
+    const stations = document.getElementById('line-stations');
+    if (stations) stations.inert = !open;
+  };
+  applyLineFold();
+  document.addEventListener('conveyor:dashboard-rendered', applyLineFold);
+  window.matchMedia('(max-width: 760px)').addEventListener('change', applyLineFold);
+
   // Tracing an item lights its dependency chain across the rows: what it waits on, and what waits on it.
   // A parent waits on its unfinished parts, so whatever waits on a parent is held up by them too.
   let traceFocus = null;
@@ -1077,6 +1092,13 @@ export const dashboardClient = String.raw`(() => {
     if (event.target.closest('[data-trace-clear]')) {
       traceFocus = null;
       applyTrace();
+      return;
+    }
+    if (event.target.closest('[data-line-toggle]')) {
+      const open = !lineOpen();
+      document.documentElement.dataset.line = open ? 'open' : 'closed';
+      try { localStorage.setItem('conveyor-line', open ? 'open' : 'closed'); } catch {}
+      applyLineFold();
       return;
     }
     const rowFold = event.target.closest('[data-row-fold]');

diff --git a/tests/app/repository-summary.test.ts b/tests/app/repository-summary.test.ts
@@ -259,7 +259,13 @@ describe("buildRepositorySummaries", () => {
     await service.reconcileAll();
     expect(await dependencies.getDashboardRevision()).not.toBe(degraded.revision);
     expect(degraded.systemWarnings).toEqual([]);
-    const degradedHtml = renderDashboard(degraded);
+    // The board no longer lists repositories, but a repository that cannot sync is called out there.
+    const degradedBoard = renderDashboard(degraded);
+    expect(degradedBoard).toContain('class="repository-warnings"');
+    expect(degradedBoard).toContain("provider access is forbidden");
+    expect(degradedBoard).toContain('href="/repositories/alpha"');
+    expect(boardHtml).not.toContain('class="repository-warnings"');
+    const degradedHtml = renderDashboard(service.dashboard("csrf", { view: "repositories", repositoryId: null, column: null, page: 1, doneLimit: 20, runId: null, issueId: null }));
     expect(degradedHtml).toContain("provider access is forbidden");
     expect(degradedHtml).not.toContain("System attention");
   });

diff --git a/scripts/regenerate-screenshots.ts b/scripts/regenerate-screenshots.ts
@@ -689,6 +689,9 @@ async function verifyPhoneLayouts(page: Page, baseUrl: string): Promise<void> {
           "Repositories navigation",
         );
         await expectReachableText(page, PHONE_OVERFLOW_REPOSITORY);
+      }
+      // The board names repositories only on cards; their address and health are on the Repositories pages.
+      if (name === "repositories" || name === "repository detail") {
         await expectReachableText(page, PHONE_OVERFLOW_ADDRESS);
         await expectReachableText(page, DEGRADED_STATUS);
         await expectReachableHealth(page, "Degraded");
@@ -807,9 +810,7 @@ async function main(): Promise<void> {
       "No split",
       "Repositories",
       PHONE_OVERFLOW_REPOSITORY,
-      PHONE_OVERFLOW_ADDRESS,
-      DEGRADED_STATUS,
-    ], ["Healthy", "Degraded"]);
+    ]);
     await capture(page, baseUrl, "repositories", "/repositories", [
       "Repositories",
       PHONE_OVERFLOW_REPOSITORY,

diff --git a/docs/dashboard.md b/docs/dashboard.md
@@ -2,7 +2,7 @@
 
 The dashboard is where you watch and steer delivery: the board, each item's story, the agents, reports and the operator. It is served by `conveyor serve` (default `http://127.0.0.1:7788`) and needs a signed-in account (`conveyor init` creates the first).
 
-The shared header is followed by the view navigation: **Board**, **Team**, **Reports**, and **Operator**. **Label problems** appears when enrolled issues have missing, unknown, or conflicting stage labels (and remains available on its empty page). The Board alone shows **The line** and its **Needs you** panel; when questions or stopped items need a person, every view links to that panel with the same count. The account menu contains Profile, About Conveyor, Sign out, and Accounts for administrators; Notifications remains in the header.
+The shared header is followed by the view navigation: **Board**, **Team**, **Reports**, and **Operator**. **Label problems** appears when enrolled issues have missing, unknown, or conflicting stage labels (and remains available on its empty page). The Board alone shows **The line** and its **Needs you** panel. The line folds with the arrow beside its name: it is open on wide screens and closed on phones until you choose, and the choice is remembered in the browser; when questions or stopped items need a person, every view links to that panel with the same count. The account menu contains Profile, About Conveyor, Sign out, and Accounts for administrators; Notifications remains in the header.
 
 ## Screenshots
 
@@ -39,9 +39,7 @@ A live update does not reload the page. The event stream (`/events/dashboard`) s
 
 ## Repositories
 
-The Board includes a **Repositories** strip for the configured delivery sources. Each card shows its repository id and address, current health, and active work; select a card to open its read-only detail view. The strip keeps the same health signals as the dedicated pages, including degraded repositories when a provider cannot be reached.
-
-**Repositories** (`/repositories`) lists every configured repository with its id, address, health, and current work. Select one to open `/repositories/<id>`, which provides its current delivery status, recent work, and **Setup**. Setup shows the provider configuration to every signed-in user, but only superusers see the local folder and agent egress hosts.
+**Repositories** (`/repositories`) lists every configured repository with its id, address, health, and current work. The Board does not list repositories, but when one cannot sync, a notice above the line names it, gives the error, and links to its page, since its items may be out of date. Select one to open `/repositories/<id>`, which provides its current delivery status, recent work, and **Setup**. Setup shows the provider configuration to every signed-in user, but only superusers see the local folder and agent egress hosts.
 
 ![Configured repositories](screenshots/repositories.png)
 

diff --git a/CHANGELOG.md b/CHANGELOG.md
@@ -17,6 +17,14 @@ Releases are published from tags by `.github/workflows/release.yml`; see
   cleared and the agent resumed, while mirroring the answer as a comment, re-syncing the repository
   and the status comment follow in the background (the comment is retried). The Answer button
   shows "Answering…" while it sends, and the board refreshes in place afterwards.
+- The line folds: its heading has a fold arrow, it is open on wide screens and closed on phones
+  until you choose, and the choice is remembered in the browser.
+
+### Removed
+
+- The Board's Repositories strip. The Repositories tab lists every repository, and each card
+  already names its repository. A repository that cannot sync is still called out on the Board:
+  a notice above the line names it, gives the error, and links to its page.
 
 ### Fixed
 
